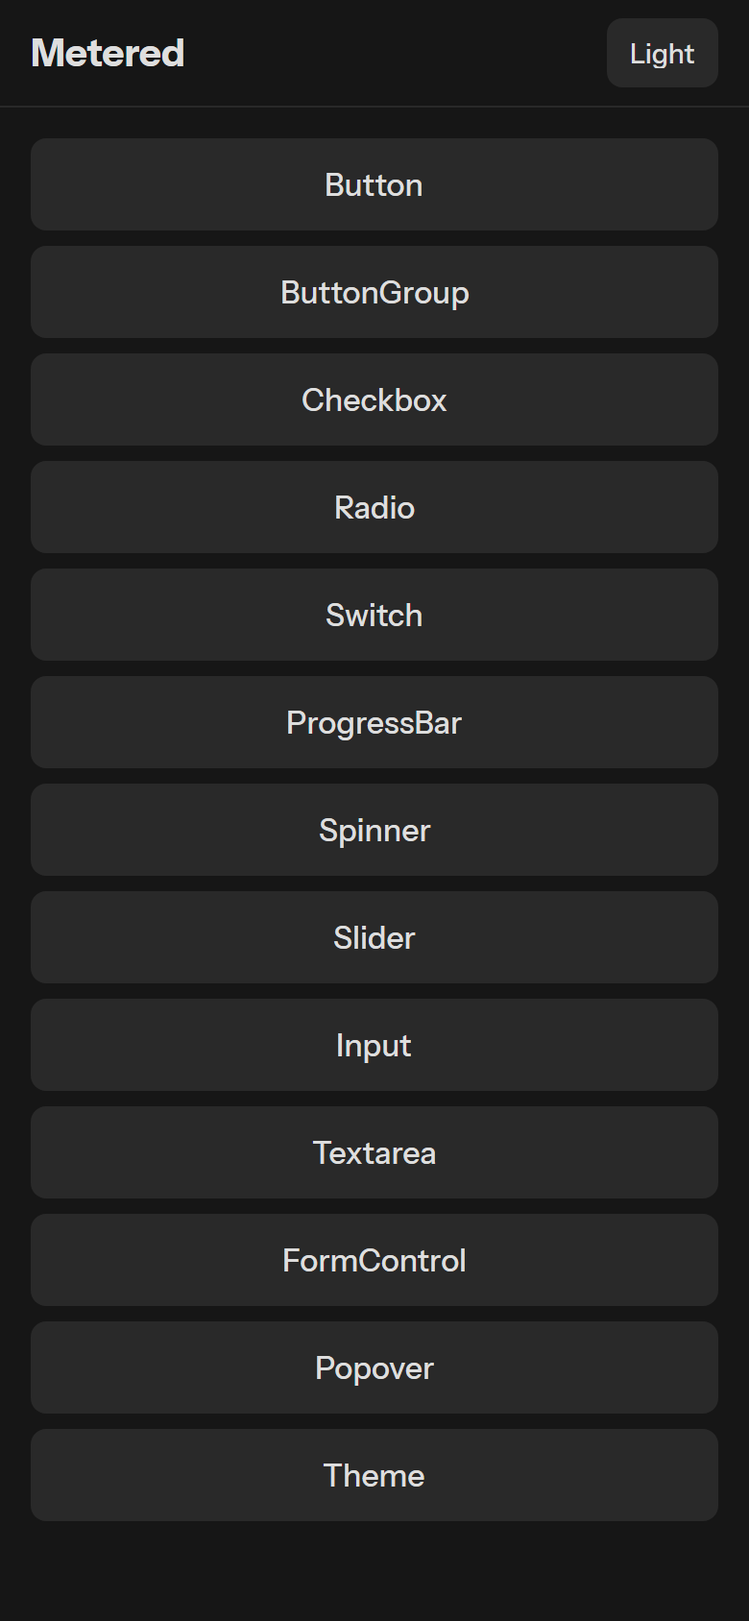
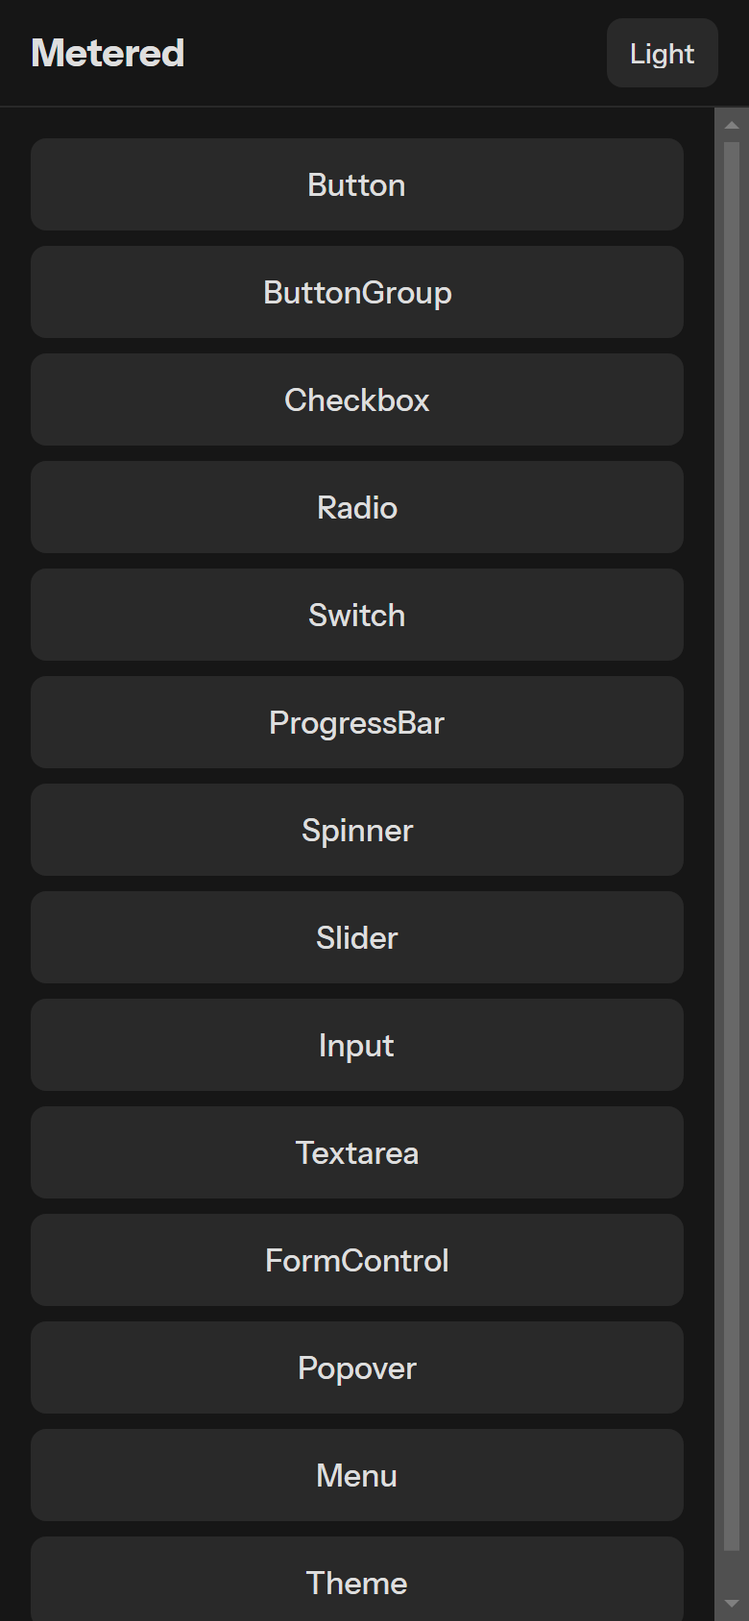
Roll-up after Menu: the list redrawn, the decisions folded, the Pixel run recorded (#130)
* Roll-up after Menu: the list redrawn, Menu's tools rows, the 2026-11-22 decisions folded, the Pixel run recorded

- docs/preview: the list redrawn with Menu (light and dark, its first screen).
- tools/README.md: tokens/menu.js and reference/menu.js rows, Menu in gen.js's and radio.js's rows (PR #128's text).
- CLAUDE.md rule 3: a helper Base Web doesn't have is tested against its scene's geometry (PR #118's text, card 5).
- docs/deviations.md: Popover's four "as built" rows decided (kept); older Android under KeyboardInset as Not yet (card 4);
  the Not yet rows and Input's #117 row brought up to the Pixel run of 2026-11-23.
- FormControl 8, Popover 10, Input 11, KeyboardInset 5: what the Pixel run found.

* Roll-up: the review pass's six nits

The roadmap's and README's status after the Pixel run and Menu; KeyboardInset's phone checklist marked passed or not tried,
and the log's row to match; Input's #117 row marked as awaiting the developer; the popover over Android's navigation bar
filed as #129 and linked; the open row's link to KeyboardInset 5 only.

---------

diff --git a/docs/deviations.md b/docs/deviations.md
@@ -47,7 +47,7 @@ These are the ones to revisit first.
 | Input | The selection's colour is the browser's | `colors.accent` with `colors.contentOnColor` text | 2026-11-21 evening, #84 (PR #93) | [Input 2](controls/Input/README.md#known-differences) |
 | Input | `isMasked` is set once, from the type at mount | Follows `Type` until the toggle is clicked | 2026-11-21 evening, #84 (PR #93) | [Input 8](controls/Input/README.md#known-differences) |
 | Input | Any HTML `type`; `BaseInput` exported as a component | `Type` is Text or Password; the soft keyboard's kind is `TextInputOptions`; `BaseInput` is abstract | 2026-11-21 evening, #84 (PR #93) | [Input's props](controls/Input/README.md) |
-| Input | An `<input>`'s long value may scroll sideways under a finger (not checked on the Pixel, #90) | A long value doesn't scroll sideways under a finger: its text's scroller has no scroll gesture, and a finger's drag never moves the caret (#94), so a sideways drag moves nothing | 2026-11-21 night (kept until a Pixel run checks it, #117; built in #94, PR #101) | [Input 11](controls/Input/README.md#known-differences) |
+| Input | An `<input>`'s long value scrolls sideways under a finger (Chrome on the Pixel 8, 2026-11-23, #117) | A long value doesn't scroll sideways under a finger: its text's scroller has no scroll gesture, and a finger's drag never moves the caret (#94), so a sideways drag moves nothing | as built: awaiting the developer again (kept 2026-11-21 night until a Pixel run checked it; on 2026-11-23 Chrome scrolled it, #117; built in #94, PR #101) | [Input 11](controls/Input/README.md#known-differences) |
 | Input | Escape is listened for only if the input was clearable when it mounted | Escape follows `Clearable` as it is now | 2026-11-21 night (kept, PR #116) | [Input 5](controls/Input/README.md#known-differences) |
 | Textarea | A phone's browser: a finger's drag scrolls the text, a tap places the caret | The same, a pen's drag too (Avalonia's text box would move the caret by a drag, and a pen's would select); a long press selects | 2026-11-21 evening, #85 (PR #95) | [Textarea's behaviour](controls/Textarea/README.md) |
 | Textarea | No grip of its own (the browser's, if any) | Metered draws a browser's grip, 16 px, in `colors.contentTertiary`, on every device | 2026-11-21 evening, #85 (PR #95) | [Textarea 2](controls/Textarea/README.md#known-differences) |
@@ -60,12 +60,12 @@ These are the ones to revisit first.
 | FormControl (sample) | The validation example checks with `email-validator` and overrides the input's `After` with an alert | A plain pattern, and no `After` override | 2026-11-21 night (kept, #105) | [FormControl 7](controls/FormControl/README.md#known-differences) |
 | FormControl | A Textarea's defaultProps (`error: false`) keep the form control's error from it: its border stays while the caption turns red | A Textarea is given the error, as an Input is | 2026-11-21 night, #105 | [FormControl 9](controls/FormControl/README.md#known-differences) |
 | FormControl | The label's box is its hit area: the row's 16 px (20 with an end enhancer) | The hit area covers the row's 8 px margins, 32 px (36), nothing moved | 2026-11-21 night, #105 | [FormControl 10](controls/FormControl/README.md#known-differences) |
-| Popover | A controlled `Popover` changes nothing itself; a `StatefulPopover` its own state, its `onOpen` and `onClose` called for its own changes | One popover: a click on the anchor, a click outside and Escape set `IsOpen` whatever bound it; `Open` and `Close` raised on every change | as built (#106) | [Popover 1](controls/Popover/README.md#known-differences) |
+| Popover | A controlled `Popover` changes nothing itself; a `StatefulPopover` its own state, its `onOpen` and `onClose` called for its own changes | One popover: a click on the anchor, a click outside and Escape set `IsOpen` whatever bound it; `Open` and `Close` raised on every change | 2026-11-23 (kept, decisions page of 2026-11-22) | [Popover 1](controls/Popover/README.md#known-differences) |
 | Popover | A phone's browser fires `mouseenter` on a tap: a hover popover opens, until a tap elsewhere; a second tap on the anchor leaves it open | A finger never hovers: a finger's or a pen's tap on the anchor toggles a hover popover, and a tap elsewhere closes one a tap opened, by the top layer; a mouse is unchanged | 2026-11-23, #123 | [Popover 2](controls/Popover/README.md#known-differences) |
-| Popover | `preventOverflow` keeps the body in the anchor's scroll parent: the document for a page that scrolls (it goes off the screen with its anchor), a scrolling element's box for one inside it | What the anchor's scroll viewer scrolls is the document: a popover goes with its anchor; one in a small scrolling box leaves the box with it; the window without one | as built (#106) | [Popover 3](controls/Popover/README.md#known-differences) |
-| Popover | popper.js runs again only at the next scroll or resize: a body opened with `auto` above or to the left of its anchor touches it until then (its margin is on the far side) | The margin at the placement chosen is placed at once: popper.js's next update | as built (#106) | [Popover 11](controls/Popover/README.md#known-differences) |
+| Popover | `preventOverflow` keeps the body in the anchor's scroll parent: the document for a page that scrolls (it goes off the screen with its anchor), a scrolling element's box for one inside it | What the anchor's scroll viewer scrolls is the document: a popover goes with its anchor; one in a small scrolling box leaves the box with it; the window without one | 2026-11-23 (kept, decisions page of 2026-11-22) | [Popover 3](controls/Popover/README.md#known-differences) |
+| Popover | popper.js runs again only at the next scroll or resize: a body opened with `auto` above or to the left of its anchor touches it until then (its margin is on the far side) | The margin at the placement chosen is placed at once: popper.js's next update | 2026-11-23 (kept, decisions page of 2026-11-22) | [Popover 11](controls/Popover/README.md#known-differences) |
 | Popover | No counterpart: a browser's back button leaves the page | Avalonia's back request closes the topmost open popover that Escape would close (`DismissOnEsc`) and is handled, so the sample's shell stays on its page; with none, the shell goes back | 2026-11-23, #123 | [Popover 12](controls/Popover/README.md#known-differences) |
-| Popover (sample) | The placements example opens on hover | On a click, so a finger can open them | as built (#106) | [Popover 6](controls/Popover/README.md#known-differences) |
+| Popover (sample) | The placements example opens on hover | On a click, so a finger can open them | 2026-11-23 (kept, decisions page of 2026-11-22) | [Popover 6](controls/Popover/README.md#known-differences) |
 | Menu | `Menu` and `StatefulMenu` are separate | One menu: the keys, the pointer and focus set `HighlightedIndex` and `IsMenuFocused` whatever bound them | as built (#107) | [Menu 1](controls/Menu/README.md#known-differences) |
 | Menu | Any object is an item, read for `label`, `disabled`, `divider` and `href`; grouped items an object of keys | A `MenuItemData` has those; any other object is its own label; a `MenuGroup` a key, ungrouped items anywhere among them | as built (#107) | [Menu 2](controls/Menu/README.md#known-differences) |
 | Menu | `stateReducer`'s `changes` are the keys that change | The whole state the change would make, with its type | as built (#107) | [Menu 3](controls/Menu/README.md#known-differences) |
@@ -110,9 +110,10 @@ These are the ones to revisit first.
 | **Right to left** | [Checkbox 9](controls/Checkbox/README.md#known-differences), [Switch 8](controls/Switch/README.md#known-differences), [ProgressBar 7](controls/ProgressBar/README.md#known-differences), [Slider 11](controls/Slider/README.md#known-differences), [Menu 13](controls/Menu/README.md#known-differences) |
 | **`borders.useRoundedCorners` false** | [ProgressBar 9](controls/ProgressBar/README.md#known-differences) |
 | **A group's items from `ItemsSource` with a template** | [Radio 12](controls/Radio/README.md#known-differences) |
-| **On a phone, open after the Pixel 8 run of 2026-11-21 (#64, #90):** the keyboard covering a focused input (#108: the sample's shell keeps its page clear with `KeyboardInset`, not yet run on the Pixel), handles left on an input the focus left (#109), the desktop menu (#110), the grip focusing the textarea (#111) | [Slider 14](controls/Slider/README.md#known-differences), [Input 10](controls/Input/README.md#known-differences), [Textarea 6](controls/Textarea/README.md#known-differences), [KeyboardInset 4, 5](controls/KeyboardInset/README.md#known-differences) |
-| **On a phone:** a FormControl's `HtmlFor` label (#102) | [FormControl 8](controls/FormControl/README.md#known-differences) |
+| **On a phone, open after the Pixel 8 run of 2026-11-21 (#64, #90):** under `KeyboardInset`, Gboard's height changing, the focus moved to another input with the keyboard up and the ready line's `page=` (#108; its other checks passed on the Pixel 8 on 2026-11-23), handles left on an input the focus left (#109), the desktop menu (#110), the grip focusing the textarea (#111) | [Slider 14](controls/Slider/README.md#known-differences), [Input 10](controls/Input/README.md#known-differences), [Textarea 6](controls/Textarea/README.md#known-differences), [KeyboardInset 5](controls/KeyboardInset/README.md#known-differences) |
+| **On a phone:** a tap on the label of an input that has the focus doesn't open the keyboard again after Back closed it (#124) | [FormControl 8](controls/FormControl/README.md#known-differences) |
+| **KeyboardInset on Android 14 and earlier, or a target below API 35:** a window Android resizes for the keyboard may be padded twice; not reasoned through or tried (decided 2026-11-23) | [KeyboardInset 4](controls/KeyboardInset/README.md#known-differences) |
 | **Popover:** `stateReducer`, `renderAll`, `popperOptions`, `focusOptions` | [Popover 9](controls/Popover/README.md#known-differences) |
-| **On a phone and in a real window:** the Popover (#119) | [Popover 10](controls/Popover/README.md#known-differences) |
+| **In a real window:** the Popover; **on a phone:** its placements' flips, a text field in it under the keyboard, and an anchor scrolled out of view below drawing its popover over Android's navigation bar (#129; #119; the rest passed on the Pixel 8 on 2026-11-23) | [Popover 10](controls/Popover/README.md#known-differences) |
 | **Menu:** `rootRef`, `getRequiredItemProps`, `onActiveDescendantChange` and the options' ids; Base Web's locale | [Menu 10, 12](controls/Menu/README.md#known-differences) |
 | **On a phone and in a real window:** the Menu (#126) | [Menu 14](controls/Menu/README.md#known-differences) |

diff --git a/tools/README.md b/tools/README.md
@@ -5,15 +5,16 @@ Developer tooling. Nothing here ships in a package. The tools that load `baseui`
 
 | Tool | What it does |
 |---|---|
-| `tokens/gen.js` | Writes `src/Metered.Themes/Tokens/*.g.axaml` from `baseui`'s LightTheme and DarkTheme (colours, sizing, borders, lighting, animation, typography, the Button's box-shadows from `tokens/button-shadows.js`, the Slider's thumb shadow from `tokens/slider.js`), the part themes `Controls/{Button,Checkbox,FormControl,Input,Popover,ProgressBar,Radio,Slider,Spinner,Switch,Textarea}.Parts.g.axaml` (`tokens/button.js`, `checkbox.js`, `form-control.js`, `input.js`, `popover.js`, `progress-bar.js`, `radio.js`, `slider.js`, `spinner.js`, `switch.js`, `textarea.js`), and `Theming/ThemeDerivation.g.cs` (`tokens/theme.js`). `--check` fails if a file would change. |
+| `tokens/gen.js` | Writes `src/Metered.Themes/Tokens/*.g.axaml` from `baseui`'s LightTheme and DarkTheme (colours, sizing, borders, lighting, animation, typography, the Button's box-shadows from `tokens/button-shadows.js`, the Slider's thumb shadow from `tokens/slider.js`), the part themes `Controls/{Button,Checkbox,FormControl,Input,Menu,Popover,ProgressBar,Radio,Slider,Spinner,Switch,Textarea}.Parts.g.axaml` (`tokens/button.js`, `checkbox.js`, `form-control.js`, `input.js`, `menu.js`, `popover.js`, `progress-bar.js`, `radio.js`, `slider.js`, `spinner.js`, `switch.js`, `textarea.js`), and `Theming/ThemeDerivation.g.cs` (`tokens/theme.js`). `--check` fails if a file would change. |
 | `tokens/theme.js` | What Base Web's `createTheme` and `createDarkTheme` derive, read by calling them (and the Button's style function) on sentinel values: which colours follow which foundation colour, what each Button shadow is made of, which paths are one object. Tables of names for `Metered.Themes.Theme` (ADR 0002). Run by `gen.js`. |
 | `tokens/checkbox.js` | The Checkbox's part themes (`Controls/Checkbox.Parts.g.axaml`), from checkbox-v2's style functions, by `radio.js`'s writer as the fewest layered styles. Run by `gen.js`. |
-| `tokens/radio.js` | The Radio's part themes (`Controls/Radio.Parts.g.axaml`), from radio-v2's style functions evaluated on a theme whose colours are their names, checked for every combination of states. Also the v2 controls' shared theme writer (with its `layered` mode) and conversions, which every other part-theme generator uses (`checkbox.js`, `form-control.js`, `input.js`, `popover.js`, `progress-bar.js`, `slider.js`, `spinner.js`, `switch.js`, `textarea.js`). Run by `gen.js`. |
+| `tokens/radio.js` | The Radio's part themes (`Controls/Radio.Parts.g.axaml`), from radio-v2's style functions evaluated on a theme whose colours are their names, checked for every combination of states. Also the v2 controls' shared theme writer (with its `layered` mode) and conversions, which every other part-theme generator uses (`checkbox.js`, `form-control.js`, `input.js`, `menu.js`, `popover.js`, `progress-bar.js`, `slider.js`, `spinner.js`, `switch.js`, `textarea.js`). Run by `gen.js`. |
 | `tokens/slider.js` | The Slider's part themes (`Controls/Slider.Parts.g.axaml`), from Base Web's slider's style functions, by `radio.js`'s writer as the fewest layered styles; react-range's inline thumb cursor; and the thumb's literal shadow as a token (`Tokens/SliderBoxShadows.g.axaml`). Run by `gen.js`. |
 | `tokens/input.js` | The Input's part themes (`Controls/Input.Parts.g.axaml`), from Base Web's input's style functions, by `radio.js`'s writer as the fewest layered styles; the icons' sizes from Base Web's Input rendered and their paths from its icons rendered (`delete-alt`, `show`, `hide`). Its `parts` and `themes` serve Textarea's; its `declare`, `padding` and `INHERITED` serve FormControl's. Run by `gen.js`. |
 | `tokens/textarea.js` | The Textarea's part themes (`Controls/Textarea.Parts.g.axaml`), from Base Web's textarea's styled components (`StyledTextAreaRoot`, `StyledTextareaContainer`, `StyledTextarea`) and BaseInput's clear icon, with `input.js`'s parts and themes for the textarea's states. Run by `gen.js`. |
 | `tokens/form-control.js` | The FormControl's part themes (`Controls/FormControl.Parts.g.axaml`), from Base Web's form control's style functions (`CaptionMessage` a style object), by `radio.js`'s writer as the fewest layered styles; the caption's two icons (`alert`, `check`) at the size Base Web's FormControl renders them. Run by `gen.js`. |
 | `tokens/popover.js` | The Popover's part themes (`Controls/Popover.Parts.g.axaml`), from Base Web's popover's style functions evaluated with its colours, radii and shadows as their token names, by `radio.js`'s writer as the fewest layered styles; the body's entrance (0.1 s while `:is-open:is-animating`), a hover popover's first 0.1 s of not taking the pointer (`IsHitTestVisible`), and `Popover.StyledPadding`. Run by `gen.js`. |
+| `tokens/menu.js` | The Menu's part themes (`Controls/Menu.Parts.g.axaml`), from Base Web's menu's style functions evaluated with its colours, radii, shadows and border colours as their token names, by `radio.js`'s writer as the fewest layered styles: the list, an option by its size, highlight, the menu's focus and disabled, its link, a header, a divider, the empty state and the profile option's seven parts; an option's colour and background transition once loaded, and a link's underline. Run by `gen.js`. |
 | `tokens/spinner.js` | The Spinner's part theme (`Controls/Spinner.Parts.g.axaml`), from Base Web's spinner's style function on a theme whose colours are their names: a state style for each size, sizing token, length and dropped value of `$size` and `$borderWidth`, and the turn, unless `:metered-still`. Run by `gen.js`. |
 | `tokens/switch.js` | The Switch's part themes (`Controls/Switch.Parts.g.axaml`), from Base Web's switch's style functions, by `radio.js`'s writer. Run by `gen.js`. |
 | `tokens/progress-bar.js` | The ProgressBar's part themes (`Controls/ProgressBar.Parts.g.axaml`), from Base Web's progress bar's style functions, by `radio.js`'s layered writer, with its motion (the fill's transition, the endless animations, off while `:metered-still`). Run by `gen.js`. |
@@ -27,6 +28,7 @@ Developer tooling. Nothing here ships in a package. The tools that load `baseui`
 | `reference/textarea.js` | For `cases.js`: `textarea.oracle.json`, the textarea's oracle: Base Web's own Textarea rendered (react-dom/server) with every part recorded, each part's style function run with the props it was given, on the light and dark themes. |
 | `reference/form-control.js` | For `cases.js`: `form-control.oracle.json`, the form control's oracle: Base Web's own FormControl rendered (react-dom/server) with every part recorded, round a child that records what `cloneElement` gives it with the defaultProps of Input, Textarea, Checkbox or RadioGroup; each part's style function run with the props it was given, on the light and dark themes; and the block flow's positions from its margins and lines. |
 | `reference/popover.js` | For `cases.js`: `popover.oracle.json`, the popover's oracle: each part's colours on the light and dark themes; the body's margin, entrance start and motion and the arrow's position by placement (its style functions checked against utils.js's helpers); its constants, default props and `StyledPadding`; and popper.js's placements, first and next update, from `tether.g.json`. |
+| `reference/menu.js` | For `cases.js`: `menu.oracle.json`, the menu's oracle: Base Web's StatefulMenu rendered for each case (its parts in order, their props and their style functions' declarations); its own MenuStatefulContainer driven step by step in Node as a browser and React would drive it (DOM focus, batched state, componentDidUpdate, type-ahead's timer faked); and its own scrollItemIntoView on the geometry its styles give. |
 | `reference/spinner.js` | For `cases.js`: `spinner.oracle.json`, the spinner's oracle. |
 | `reference/switch.js` | For `cases.js`: `switch.oracle.json`, the switch's oracle. |
 | `reference/progress-bar.js` | For `cases.js`: `progress-bar.oracle.json`, the progress bar's oracle: Base Web's own `ProgressBar` rendered (react-dom's server renderer) with every part overridden by a recorder, each part's style function evaluated with the props it was given. |

diff --git a/docs/controls/KeyboardInset/README.md b/docs/controls/KeyboardInset/README.md
@@ -80,7 +80,10 @@ Read from Avalonia 12.1.4's Android backend (`Avalonia.Android`, `AndroidInsetsM
    to pan or resize it for the keyboard (no `WindowSoftInputMode` is set, so `adjustUnspecified`). A window resized for
    the keyboard would be padded twice: Avalonia's `OccludedRect` is measured up from the bottom of the client area, which
    would already end above the keyboard. Not tried; the sample's only device is an Android 17 phone.
-5. **Not yet tried on a phone.** Headless, Avalonia has no input pane, and its `IInputPane` can't be implemented outside
+5. **Tried on a Pixel 8** (Android 17, Gboard, 2026-11-23, #108): a textarea near the page's foot ends just above the
+   keyboard and its last line is brought into view; the same in landscape and back; Back closes the keyboard and leaves
+   no gap; Home and back again, the keyboard is closed and nothing is left padded. Not tried: Gboard's own height
+   changing, nor the focus moved to another input with the keyboard up (below). Headless, Avalonia has no input pane, and its `IInputPane` can't be implemented outside
    Avalonia (its reference assembly carries a member user code can't write), so the tests drive the decorator through an
    internal seam (`KeyboardInset.InputPane`, a `KeyboardInset.IPane`), a fake that raises `StateChanged` as Android's
    backend does. The device run checks the rest (below).
@@ -102,15 +105,18 @@ scene's own geometry.
 
 ## On a phone
 
-What the Pixel run should check, on the Input, Textarea and FormControl pages:
+What the Pixel run checks, on the Input, Textarea and FormControl pages, and where each stands (Pixel 8, Android 17):
 
 - an input in the page's last screen (the Input page's Clearable), tapped: the page scrolls it above the keyboard, and
-  the page can be scrolled by hand to its foot, which ends above the keyboard;
-- the keyboard closed (Back, or Gboard's own close): the page has its height back and no gap is left at its foot;
-- the focus moved to another input with the keyboard up: it is scrolled into view, and the keyboard stays;
-- a rotation with the keyboard up, and Gboard's height changed (its emoji panel, or the suggestions strip), the page
-  still ending at the keyboard's top, and the focused input brought back into view;
+  the page can be scrolled by hand to its foot, which ends above the keyboard: **passed** (the run for PR #118);
+- the keyboard closed (Back, or Gboard's own close): the page has its height back and no gap is left at its foot:
+  **passed** (then, and Back again on 2026-11-23);
+- the focus moved to another input with the keyboard up: it is scrolled into view, and the keyboard stays: **not tried**;
+- a rotation with the keyboard up: **passed** (2026-11-23); Gboard's height changed (its emoji panel, or the suggestions
+  strip), the page still ending at the keyboard's top: **not tried**;
 - the Textarea page: a long text with the caret on its last line, tapped near the foot: the caret's line above the
-  keyboard;
-- Home with the keyboard up, then back to the app with the keyboard gone: no gap at the page's foot;
-- the bar at the top and the system bars untouched, and the ready line's `page=` the same as before with no keyboard.
+  keyboard: **passed** (2026-11-23);
+- Home with the keyboard up, then back to the app with the keyboard gone: no gap at the page's foot: **passed**
+  (2026-11-23);
+- the bar at the top and the system bars untouched: **passed** (2026-11-23); the ready line's `page=` the same as before
+  with no keyboard: **not tried** (the run used the preview build, not `run.ps1`).

diff --git a/docs/ROADMAP.md b/docs/ROADMAP.md
@@ -48,7 +48,8 @@ Done since the pilot (2026-11-16):
       Debug line) and the timing benchmark with its trend table (`docs/performance/README.md`)
 - [x] The soft keyboard (#108): `KeyboardInset`, an opt-in decorator that keeps its child clear of a phone's keyboard
       and brings the focused control into view, as a browser does, which Base Web relies on; the sample's shell uses it
-      (`docs/controls/KeyboardInset/`). Tested headless through a fake pane; not yet run on the Pixel
+      (`docs/controls/KeyboardInset/`). Tested headless through a fake pane, and on the Pixel 8 on 2026-11-23 (Gboard's height changing and the focus moved
+      with the keyboard up not yet)
 
 Borrowed from Cornflower and Avonic (2026-11-16):
 
@@ -118,7 +119,7 @@ tooltip, popover, menu, select), then the small new ones, then the overlays and 
       popper.js itself run headless), the arrow, dismissed by a press or a finger's tap outside and Escape by the top layer
       (`Layers`), its entrance and exit, focus and the focus lock, content of any kind or a function of `close`, its three
       parts and overrides (`docs/controls/Popover/`). `Tether` and `Layers` are for Select (#97) and Menu (#107). On
-      the Pixel and in a real window: #119. Then (#123): a finger's or a pen's tap toggles a hover popover, and
+      the Pixel (partly, 2026-11-23) and in a real window: #119; its popover over Android's navigation bar: #129. Then (#123): a finger's or a pen's tap toggles a hover popover, and
       Avalonia's back request closes the top popover that Escape would close before the shell goes back
 - [x] Menu (#107): Base Web's `baseui/menu` (no v2), `StatefulMenu` and `Menu` in one: items, groups, dividers, the empty
       state, the keyboard highlight, type-ahead and scrolling as its own container and `scrollItemIntoView` do (against

diff --git a/docs/controls/Popover/README.md b/docs/controls/Popover/README.md
@@ -237,8 +237,12 @@ entrance's transition and the hover body's pointer as Base Web's.
    `Closing`, and is shown again if a handler cancels the close.
 9. **Not ported:** `mountNode` (the overlay layer is the window's), `renderAll` (server-side rendering), `popperOptions`
    (popper.js's own modifiers), `stateReducer`, `focusOptions`, `id` and `data-baseweb`.
-10. **Not tried on a phone or in a real window** yet (#119): a tap and a drag outside, the hover trigger under a mouse,
-    focus, the overlay over the soft keyboard, Android's back button (known difference 12).
+10. **On a phone, tried on a Pixel 8** (Android 17, 2026-11-23, #119, the build before #123): a tap on a click anchor
+    opens it, a drag that scrolls the page leaves it open and it goes with its anchor, a tap elsewhere closes it. Found:
+    an anchor scrolled out of view *below* leaves its popover drawn at the screen's foot over Android's navigation bar
+    (the overlay isn't limited to the page's viewport; a browser's would be below the fold): #129. Not tried yet: the
+    placements' flips near the edges, a text field in a popover under the keyboard, #123's tap and Back on the phone,
+    and everything in a real window (the hover trigger under a mouse, focus, the overlay unclipped).
 11. **A new margin is placed at once.** When popper.js has chosen a placement, Base Web's body takes the margin at it,
     but popper.js runs again only at the next scroll, resize or change of size: a body that opens with `auto` and goes
     above or to the left of its anchor touches it until then (Base Web's margin is on the far side), and a flip near an

diff --git a/docs/controls/FormControl/README.md b/docs/controls/FormControl/README.md
@@ -187,7 +187,11 @@ themes, and computes the block flow's positions from the style functions' margin
    its `After` override (an 18 px alert in the input).
 8. **On a phone, tried on a Pixel 8** (Android 17 (API 37), 2026-11-21, #102): a tap on a label focuses its input and
    opens the soft keyboard; a drag from a label scrolls the page and focuses nothing; a disabled one's label does nothing.
-   Not checked yet: the `HtmlFor` label (#102).
+   Again on 2026-11-23 (#102, #114): the `HtmlFor` label focuses the other input and opens the keyboard; a tap on a
+   label's top margin does too; a Checkbox's label toggles it and toggles it back; the counter follows the soft keyboard
+   and draws its digits whole; the validation example's error shows once the field is left. Found: a tap on the label of
+   an input that already has the focus, after Back closed the keyboard, doesn't open it again (a tap on the input does):
+   #124.
 9. **A Textarea is given the form control's error, as an Input is** (the developer, 2026-11-21 night, #105). Base Web's
    Textarea has `error: false` in its defaultProps, so under a form control in error its border stays as it is while the
    caption turns red: an accident of its defaults. The oracle keeps Base Web's case; the test expects, for a Textarea, what

diff --git a/docs/controls/Input/README.md b/docs/controls/Input/README.md
@@ -193,5 +193,6 @@ Base Web's Textarea renders the same `BaseInput` with `StyledTextAreaRoot`, `Sty
    Holding isn't raised headless, so the drag after a hold is tested only on the phone.
 11. **A long value doesn't scroll sideways under a finger.** The text's scroller has no scroll gesture, and a finger's
    drag no longer moves the caret (#94), so a sideways drag on a value longer than the box moves nothing; the text still
-   scrolls to keep the caret in view (a tap, typing, the keys). Whether a phone's browser scrolls an `<input>`'s
-   overflowing text under a finger wasn't checked in the Pixel run (#90) and is still open.
+   scrolls to keep the caret in view (a tap, typing, the keys). Chrome on the Pixel 8 does scroll an `<input>`'s
+   overflowing text sideways under a finger, focused or not, without focusing it (2026-11-23, #117); the choice is the
+   developer's.

diff --git a/CLAUDE.md b/CLAUDE.md
@@ -59,7 +59,8 @@ pwsh -NoProfile -File tools/real-window/selftest.ps1
 2. **A part's look lives only in its own `Styled{Part}` theme**, never in the owner's
    `/template/` styles, which would outrank an app's override (ADR 0001).
 3. **Every value a test expects comes from Base Web**: the oracle, or a value read from its source
-   with the file named.
+   with the file named. A helper Base Web doesn't have, as it relies on the browser (`KeyboardInset`), is tested
+   against its scene's own geometry, and its test class says so.
 4. **Avalonia's style priority**: a style with a pseudoclass outranks a plain setter whatever the
    order. A plain setter that must win goes in a style (ADR 0001, item 6).
 5. **No literal colours outside `src/Metered.Themes/Tokens/`.** `LiteralColourGuardTests` fails on

diff --git a/README.md b/README.md
@@ -12,7 +12,7 @@ by Uber or the AvaloniaUI team.
 
 The sample's pages, drawn headless. More in [PREVIEW.md](PREVIEW.md).
 
-> **Status: early, not yet published.** Twelve controls, from Button to Popover (see [PREVIEW.md](PREVIEW.md)), on the tokens, the
+> **Status: early, not yet published.** Thirteen controls, from Button to Menu (see [PREVIEW.md](PREVIEW.md)), on the tokens, the
 > parts and states, Base Web's overrides API and its theme builder. The inventory of controls is
 > next; see [`docs/ROADMAP.md`](docs/ROADMAP.md).
 
